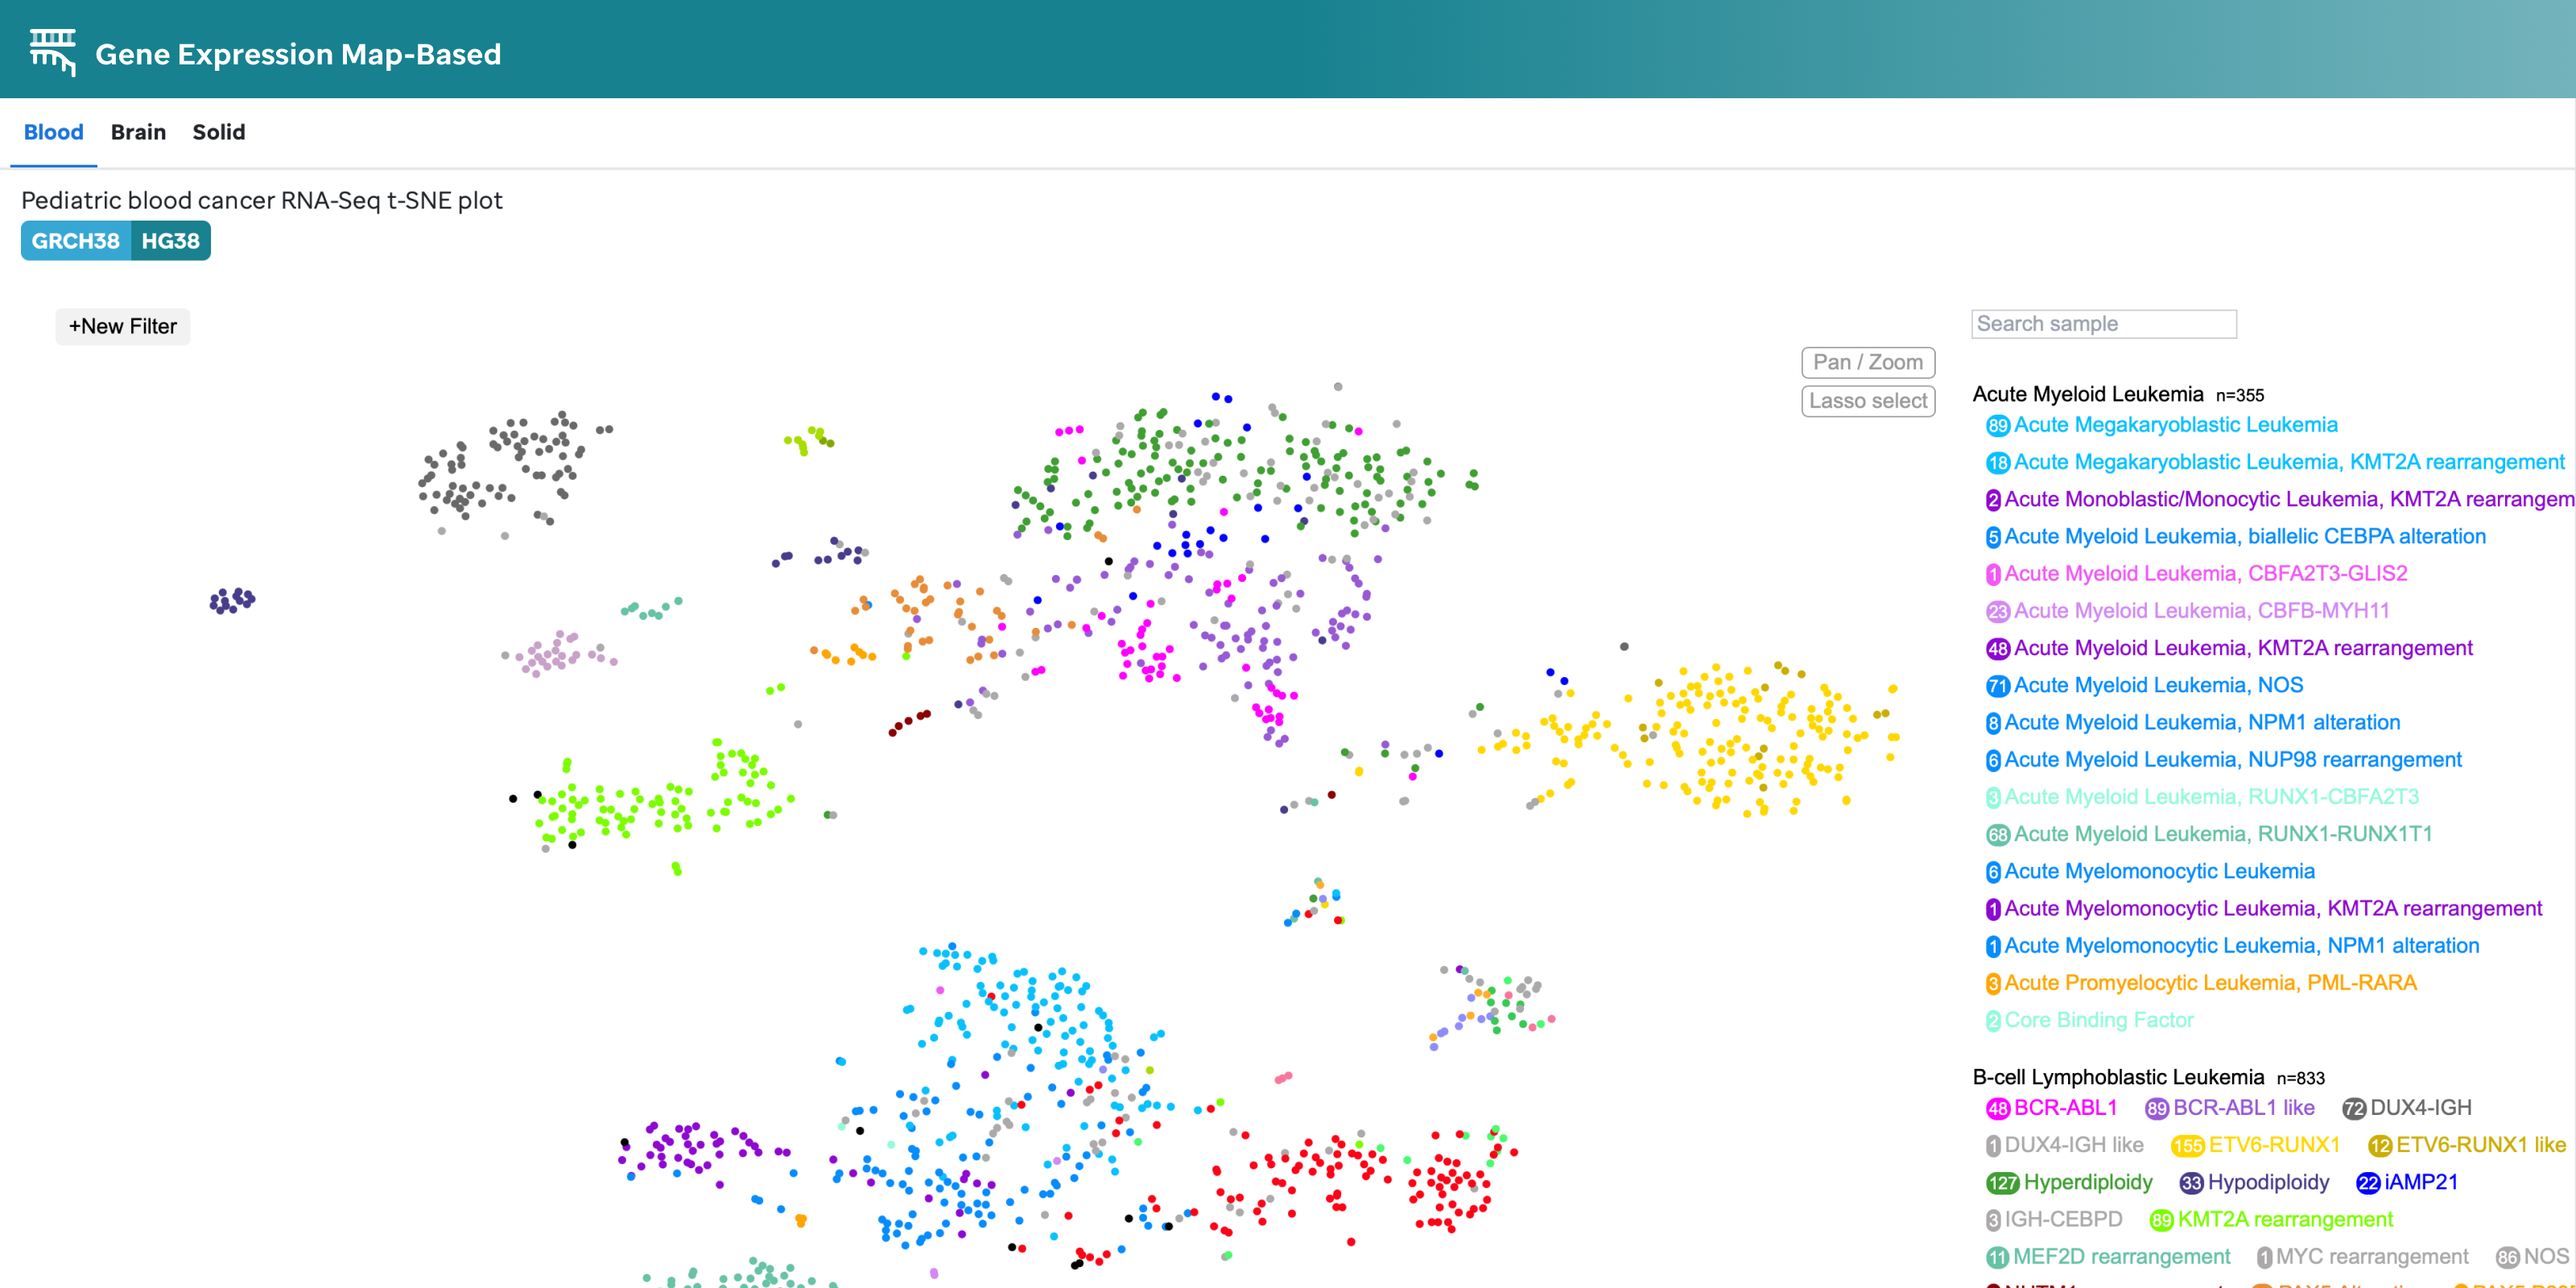
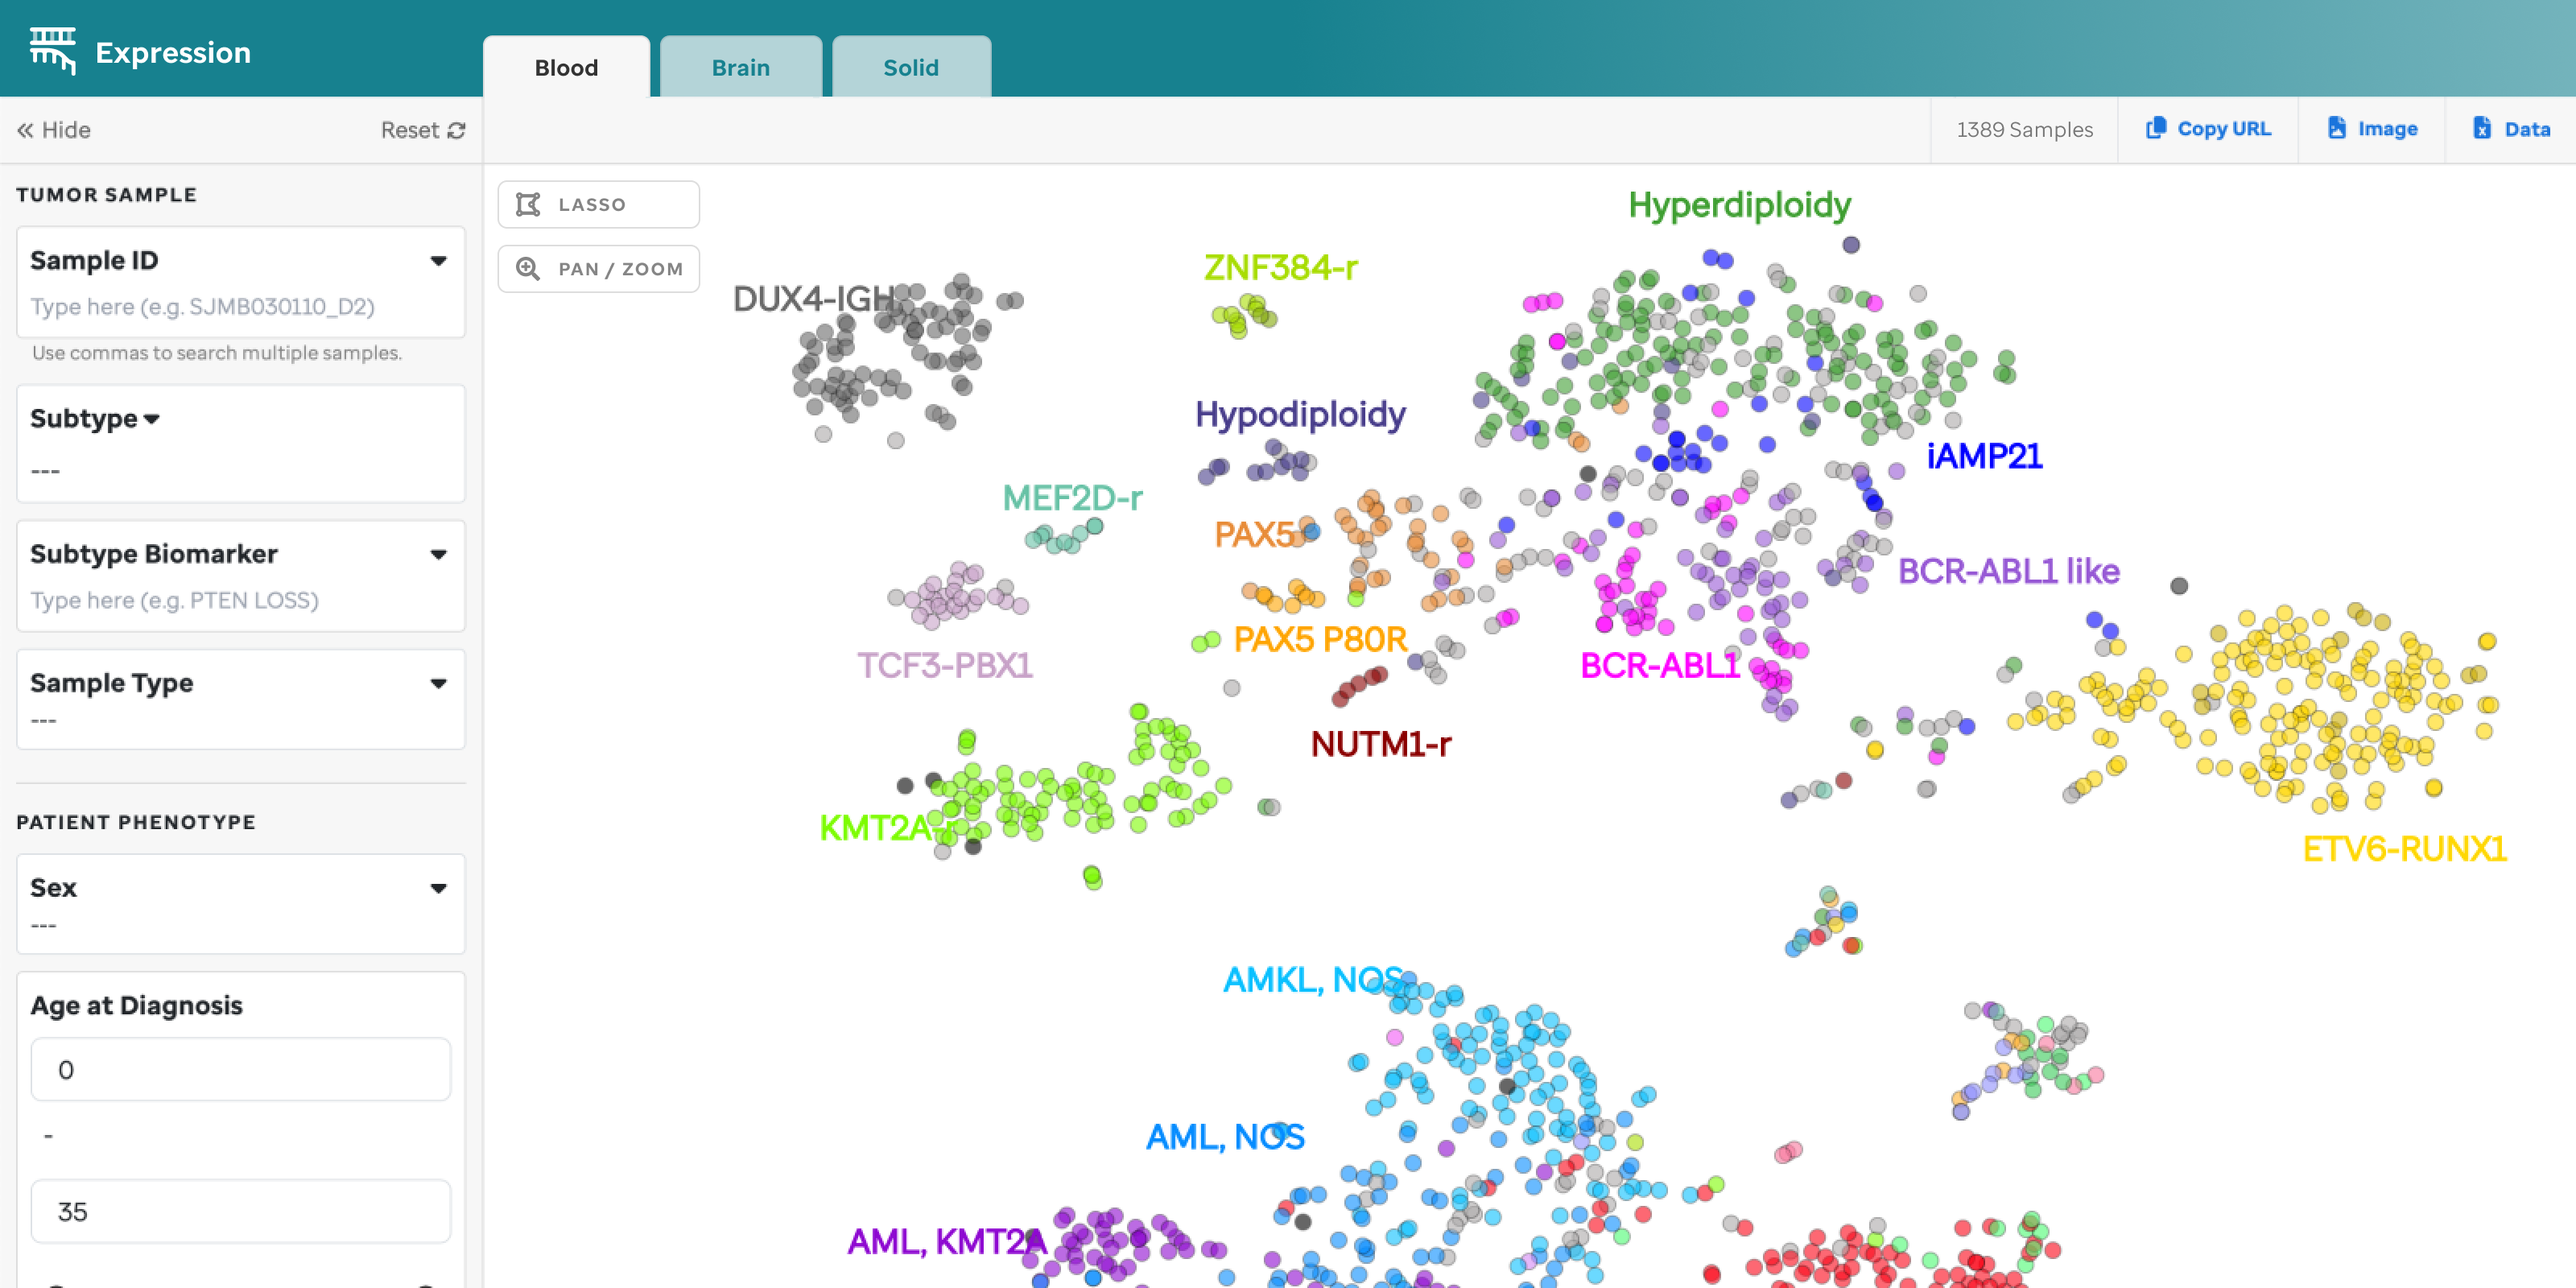
tSNE changes

diff --git a/docs/pecan/expression/index.md b/docs/pecan/expression/index.md
@@ -6,39 +6,61 @@ title: Expression
 
 **Overview:** The expression landscape of 3432 RNA-Seq fresh frozen tumor samples (1389 blood tumors, 888 solid tumors, and 1155 brain tumors) in St. Jude Cloud is displayed via a t-SNE plot (**Figure 1**) generated using the [St. Jude Cloud RNA-Seq Expression Analysis workflow](https://platform.stjude.cloud/workflows/rnaseq-expression-classification).
 
-!!!tip
-An example with a subset of this data can be found in [Figure 4f of McLeod et al](https://cancerdiscovery.aacrjournals.org/content/11/5/1082.long).
-!!!
+![](./tSNE@2x.png)
 
-![](./tSNE.png)
-
-**Figure 1: tSNE for Blood, Brain, and Solid Samples.** Further details for each sample can be accessed by mousing over the dots and by accessing the associated [metadata](https://platform.stjude.cloud/api/v1/manifest). This visualization is supported by ProteinPaint's scatterplot.
+**Figure 1: tSNE for Blood, Brain, and Solid Samples.** Metadata details for each sample can be accessed by mousing over the data points. This visualization is supported by D3.
 
 !!!note
-All samples use the hg38 reference genome.
+- All samples use the hg38 reference genome.
+- All metdata can be found by accessing our [manifest](https://platform.stjude.cloud/api/v1/manifest)
 !!!
 
 **Features:**
-A user can explore across the 3 tSNE plots: Blood, Solid, or Brain tumor samples and employ the features listed below (**Figure 2**).
+A user can explore across the 3 tSNE plots: Blood, Solid, or Brain tumor tabs and employ the features listed below:
 
-*Subtype selection*- Diagnosis subtypes are denoted by color as per the legend (right).
+*Subtype categorization*- Subtypes are denoted by a specific color and a subset have been labeled on the plot.
 
-*Filter* - Diagnosis, catergory, subtype, sex, age, etc can filter the samples in the plot.
+*Sample Summary*- A user can select a data point on the plot that opens a sample summary drawer annotating relavent metadata and information. 
 
-*Search* - A user can search individual samples, subtypes, subtype biomarkers, sample cohort, sample preparation, etc.
+*Filters* - Filters are organized by Tumor Sample, Patient Phenotype, and Sample Preparation. Once a filter is selected, the subtype labels will be disabled. Functionality of each is further described below. 
 
-*Lasso* - Allows a user to select a specific region on the plot to retrieve a list of samples to enable further investigation.
+*Sample Search* - A user can search individual sampleIDs or bulk IDs that are comma separated. The sampleIDs must be exact and cannot be fuzzy searched.
 
-*Pan/Zoom* - Allows a user to examine regions of the plot in more detail.
+*Lasso* - Allows a user to select a specific region on the plot to retrieve a list of samples to enable further investigation. To view the sample summary of the lassoed samples, click the "Data" icon in the top right of the subnavbar. See GIF below.
 
-![](./tsne_explained.png)
-**Figure 2: Features for tSNE.** A user can interact by using a number of features for each of the 4 tSNE plots.
+*Pan/Zoom* - Allows a user to examine regions of the plot in more detail, this disables any labels. 
 
-Further, the lasso enables a user to select a region on the plot to enable further investigation with the sampleIDs selected (**Figure 3**)
-
-![](./lasso.png)
-**Figure 3: Lasso.** A user can use the lasso feature to populate a table to retrieve a list of sampleIDs for the selected region.
+![](./lasso.gif)
 
 !!!warning
-Filtering by the sunburst will auto-populate the search with a specific key. A user can remove the text or click the subtypes on the right to continue exploring.
+Filtering by the sunburst will auto-populate the diagnosis and subtype filter. A user can edit this modal, but it will not update the sunburst.
+!!!
+
+**Filters Explained**
+### Tumor Sample
+1. Sample ID - A user can search individual St. Jude CompBio IDs or bulk search IDs that are comma separated. 
+2. Subtype - This is a modal whereby a user can custom select which subtypes to view in the plot. Child nodes will automatically become enabled or disabled if a parent node is (de)selected. The number of samples and the subtype color is desginated in the modal for reference. 
+3. Subtype Biomarker - This field populates the first 10 responses based on what the user inputs. It will autopopulate responses as a user types.
+4. Sample Type - This field is a multi-select dropdown. 
+### Patient Phenotype
+1. Sex - A multi-select dropdown. 
+2. Age at Diagnosis - A scale whereby a user can manually type in the age parameters or use the scale (in years). A user can type in any age, even passed our "35+" parameter. 
+3. Race - This is a multi-select dropdown.
+4. Ethnicity - This is multi-select dropdown.
+### Sample Preparation
+1. Library Selection Protocol - This is a multi-select dropdown.
+2. Preservative - This is a mutli-select dropwdown 
+
+!!!Warning
+There can be fields with a "Not Available" option for samples that did not have this value recorded (e.g., Race, Ethnicity, Sex). 
+!!!
+
+
+
+
+
+
+
+!!!tip
+An example with a subset of this data can be found in [Figure 4f of McLeod et al](https://cancerdiscovery.aacrjournals.org/content/11/5/1082.long).
 !!!
